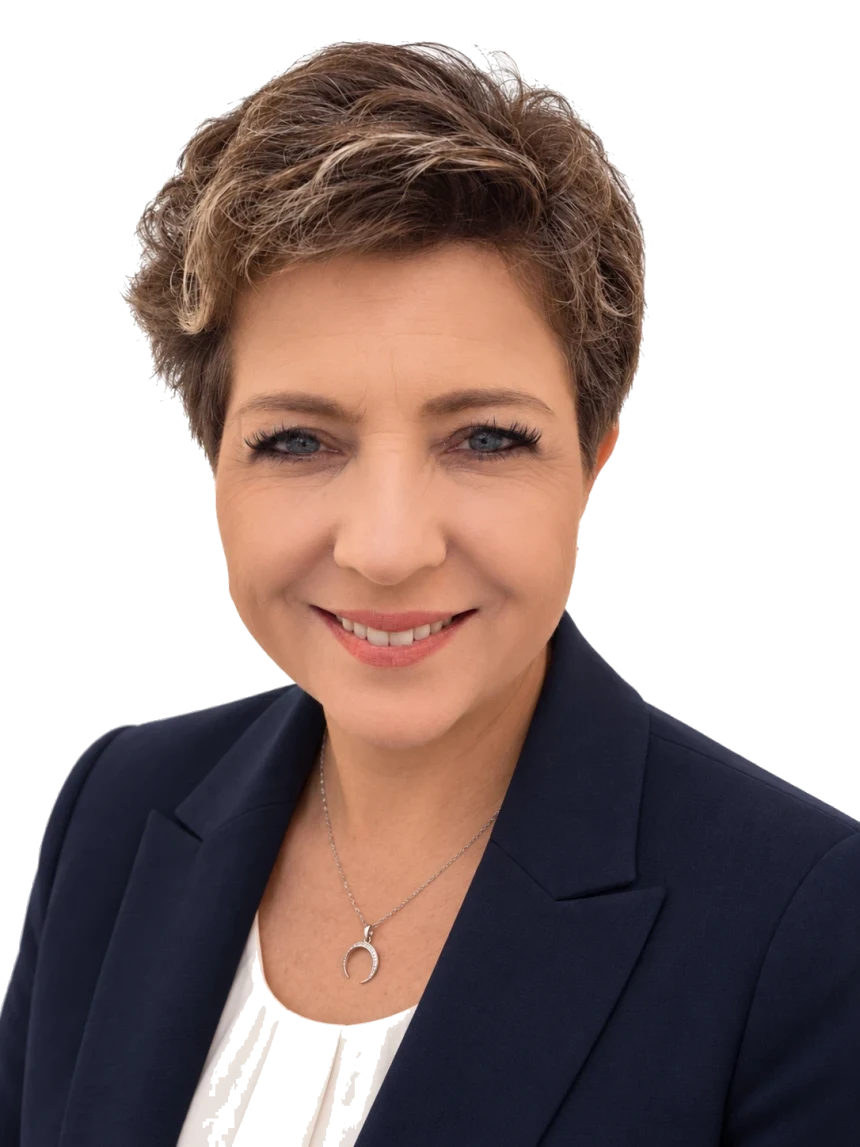
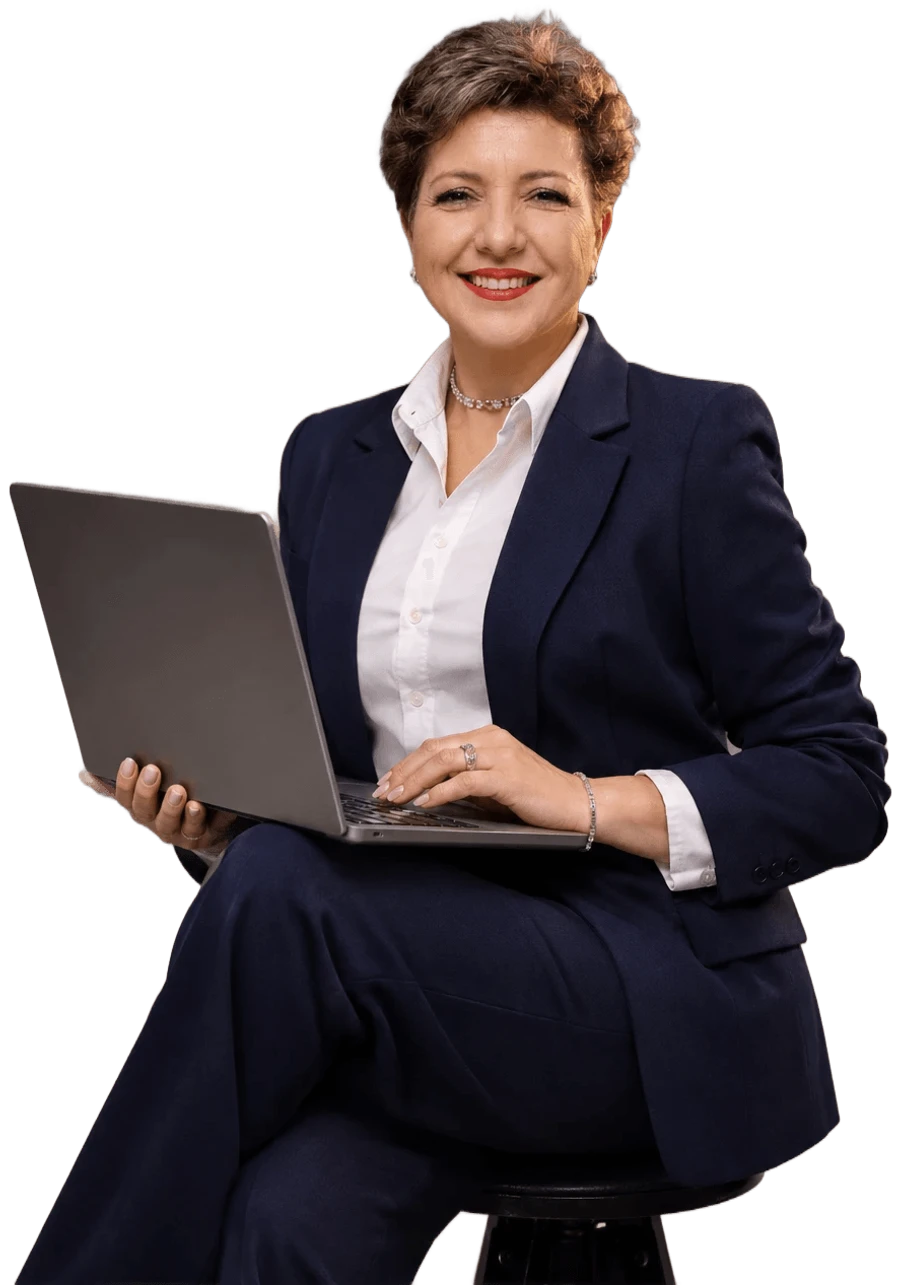
Replace hero photo with new mirrored cut-out, remove colored card
- New portrait with laptop, background removed and mirrored
- Drop the colored photo card; soft white glow and bottom fade instead
- Chips repositioned in percentages over the new photo

diff --git a/src/style.css b/src/style.css
@@ -435,61 +435,36 @@ a {
   border-color: rgba(229, 125, 88, 0.5);
 }
 
+/* Фото без картки й кольорової підложки: фігура стоїть просто на фоні сторінки */
 .hero__visual {
   position: relative;
-  flex: 0 0 382px;
-  height: 488px;
+  flex: 0 0 460px;
 }
 
 .hero__photo {
   position: relative;
-  display: flex;
-  align-items: flex-end;
-  justify-content: center;
   width: 100%;
-  height: 100%;
-  overflow: hidden;
-  border-radius: 24px;
-  /* теплий градієнт: світла пляма зверху, персиковий → пісочний донизу */
-  background:
-    radial-gradient(90% 60% at 72% 12%, rgba(255, 246, 238, 0.95) 0%, rgba(255, 246, 238, 0) 60%),
-    linear-gradient(165deg, #f8dcc9 0%, #ecd0bc 48%, #e5d8cb 100%);
-  box-shadow: 0 24px 48px rgba(150, 90, 60, 0.18), inset 0 1px 0 rgba(255, 255, 255, 0.7);
 }
 
-/* м'яке світіння за фігурою */
+/* ледь помітне біле сяйво за фігурою замість кольорової картки */
 .hero__photo::before {
   content: '';
   position: absolute;
-  left: 8%;
-  top: 22%;
-  width: 84%;
-  aspect-ratio: 1;
-  border-radius: 50%;
-  background: radial-gradient(circle, rgba(229, 125, 88, 0.55) 0%, rgba(242, 168, 137, 0.25) 45%, rgba(242, 168, 137, 0) 70%);
-  filter: blur(18px);
-  animation: glow 7s ease-in-out infinite alternate;
-}
-
-@keyframes glow {
-  from {
-    transform: translate(-4%, 2%) scale(0.95);
-    opacity: 0.85;
-  }
-  to {
-    transform: translate(4%, -3%) scale(1.08);
-    opacity: 1;
-  }
+  inset: 4% -6% 8%;
+  background: radial-gradient(closest-side, rgba(255, 255, 255, 0.95), rgba(255, 255, 255, 0) 100%);
+  pointer-events: none;
 }
 
 .hero__img {
   position: relative;
   z-index: 1;
   display: block;
-  width: 92%;
+  width: 100%;
   height: auto;
-  /* теплий відблиск по контуру й тінь під фігурою */
-  filter: drop-shadow(0 0 1px rgba(255, 220, 198, 0.9)) drop-shadow(0 12px 22px rgba(150, 70, 40, 0.28));
+  /* низ фото м'яко розчиняється у фон, щоб не було різкого зрізу */
+  -webkit-mask-image: linear-gradient(to bottom, #000 80%, transparent 100%);
+  mask-image: linear-gradient(to bottom, #000 80%, transparent 100%);
+  filter: drop-shadow(0 10px 20px rgba(85, 60, 45, 0.16));
 }
 
 /* Плаваючі підписи навколо фото */
@@ -529,17 +504,17 @@ a {
 }
 
 .chip--1 {
-  top: 56px;
-  left: -48px;
+  top: 14%;
+  left: -24px;
 }
 .chip--2 {
-  top: 220px;
-  right: -28px;
+  top: 46%;
+  right: -12px;
   animation-delay: -2s;
 }
 .chip--3 {
-  bottom: 64px;
-  left: -36px;
+  top: 72%;
+  left: -28px;
   animation-delay: -4s;
 }
 
@@ -1140,8 +1115,7 @@ a {
   .hero__visual {
     flex-basis: auto;
     width: 100%;
-    max-width: 382px;
-    height: 488px;
+    max-width: 420px;
     margin: 0 auto;
   }
   .chip--1 {

diff --git a/index.html b/index.html
@@ -165,8 +165,8 @@
               class="hero__img"
               src="/images/photo.webp"
               alt="Наталія Рашевська, UX/UI дизайнерка"
-              width="860"
-              height="1147"
+              width="900"
+              height="1285"
             />
           </div>
           <span class="chip chip--1">UX-дослідження</span>
